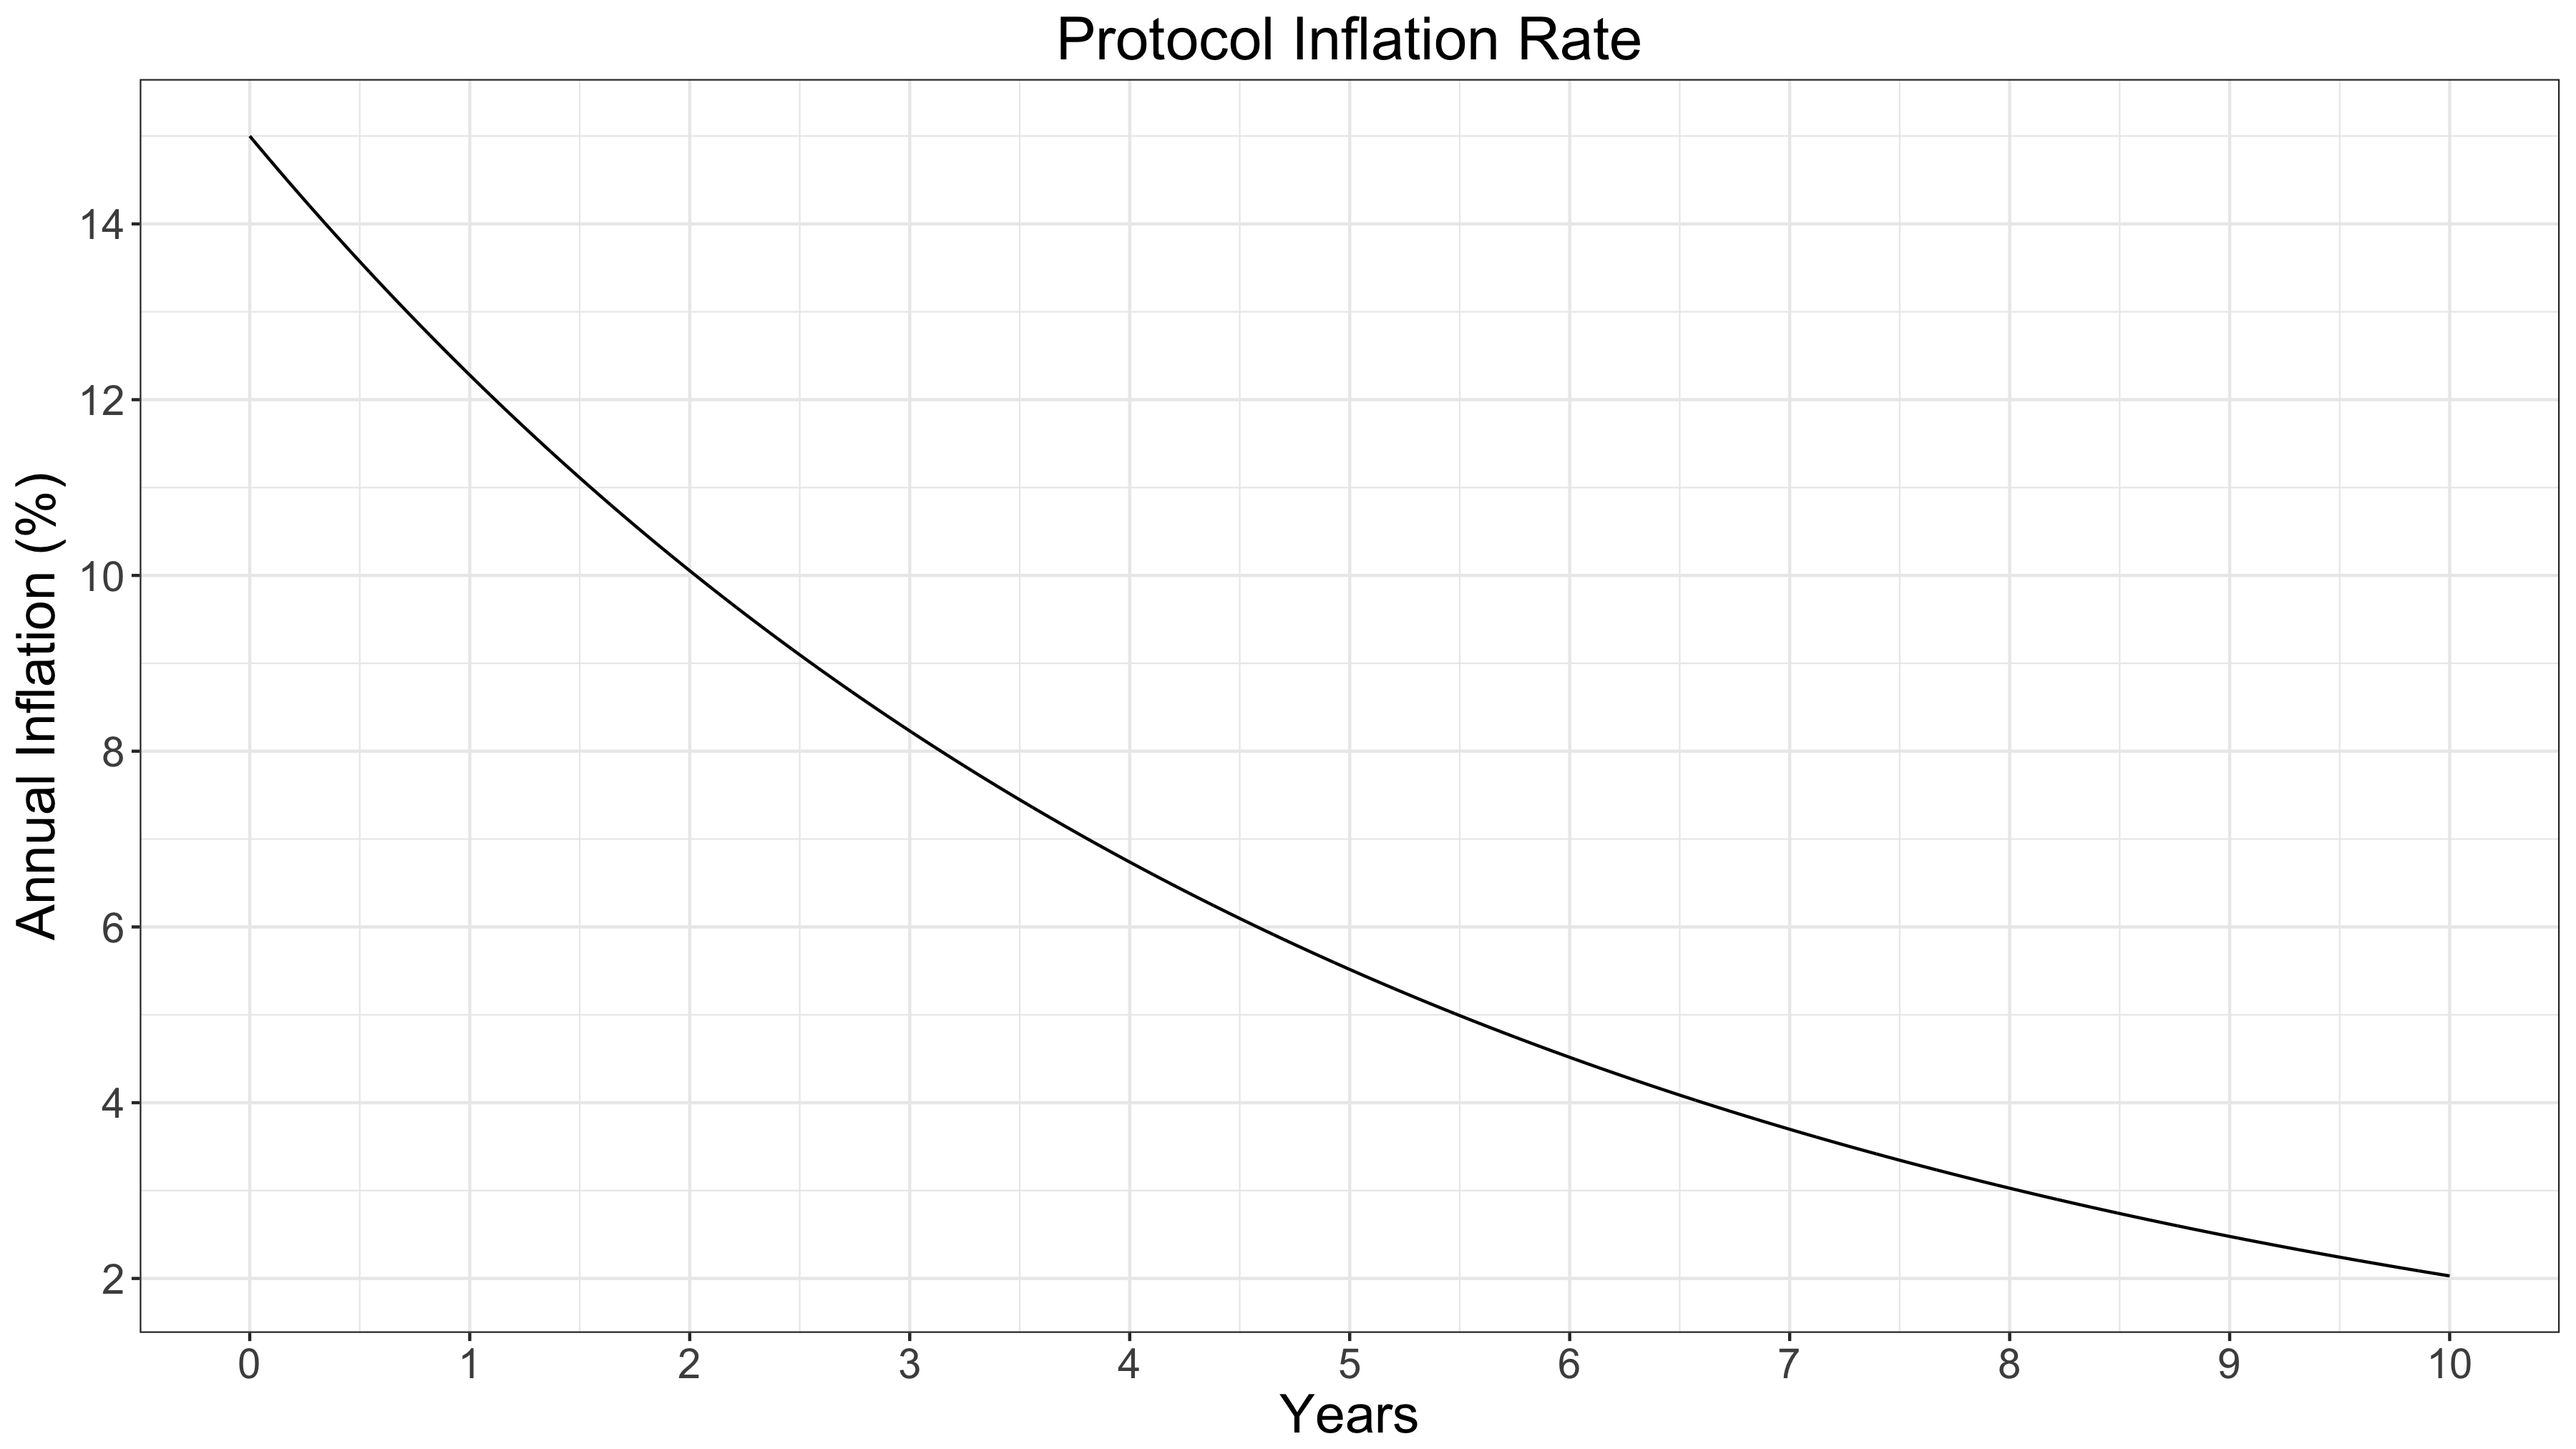
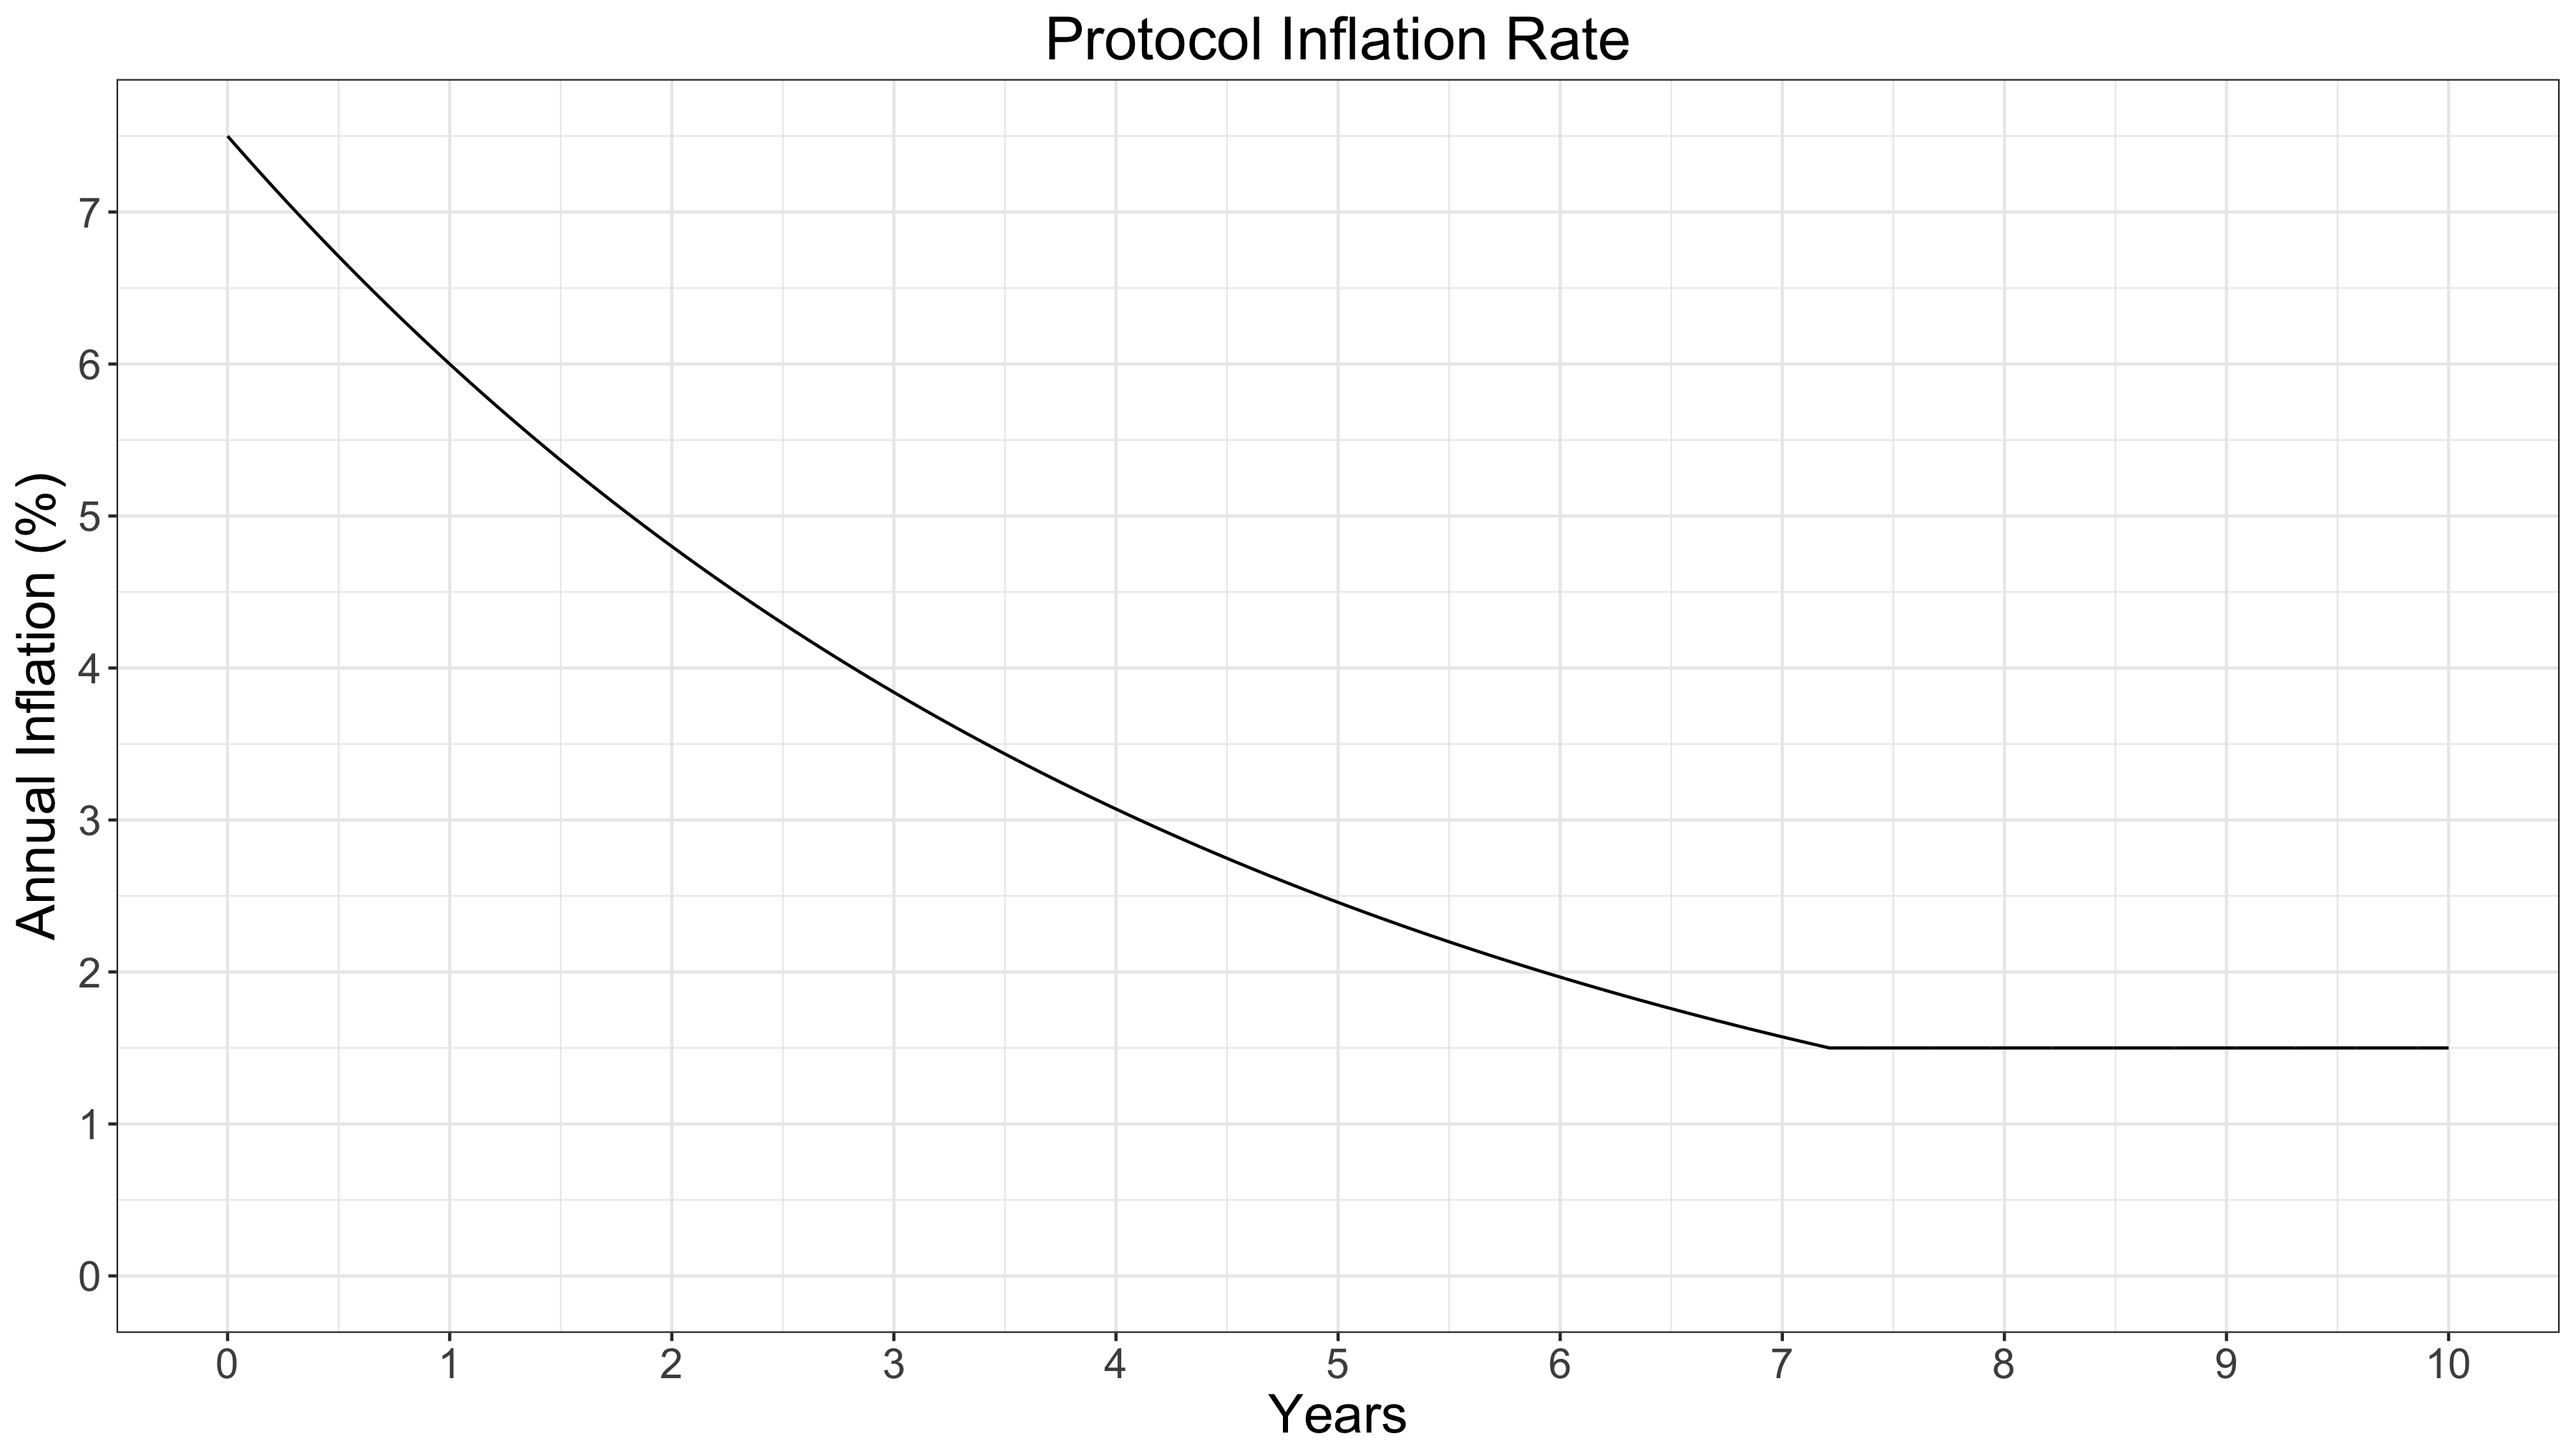
add vesting to inflation plots

diff --git a/book/src/ed_vce_state_validation_protocol_based_rewards.md b/book/src/ed_vce_state_validation_protocol_based_rewards.md
@@ -13,15 +13,13 @@ The effective protocol-based annual interest rate (%) per epoch to be distribute
 
 * the current global inflation rate, derived from the pre-determined dis-inflationary issuance schedule
 
-* the global time since the genesis block instantiation
+* the fraction of staked SOLs out of the current total circulating supply,
 
-* the current fraction of staked SOLs out of the current total circulating supply,
+* the up-time/participation [% of available slots that validator had opportunity to vote on] of a given validator over the previous epoch.
 
-* the up-time/participation [% of available slots/blocks that validator had opportunity to vote on?] of a given validator over the previous epoch.
+The first factor is a protocol parameters only (i.e. independent of validator behavior in a given epoch) and describe a global validation reward schedule designed to incentivize early participation, provide clear montetary schedule/stability and provide optimal security in the network. 
 
-The first two factors are protocol parameters only (i.e. independent of validator behavior in a given epoch) and describe a global validation reward schedule designed to incentivize early participation, provide clear montetary schedule/stability and provide optimal security in the network. 
-
-At any given point in time, a specific validator's interest rate can be determied based on that validators proportion of total stake and their uptime/activity in the previous epoch. For an illustrative example, consider a protocol with an initial circulating token supply of 500MM tokens, an inflation rate specified at network launch of 15%, and a disinflationary schedule of 70% decrease in rate per year (the actual rates to be implemented are to be worked out during the testnet experimentation phase of mainnet launch). In this case, the 10-year inflation rate (adjusted daily for this example) is shown in **Figure 2**, while the total circulating token supply is illustrated in **Figure 3**. 
+At any given point in time, a specific validator's interest rate can be determined based on the porportion of circulating supply that is staked by the network and the validator's uptime/activity in the previous epoch. For an illustrative example, consider a hypothetical instance of the network with an initial circulating token supply of 200MM tokens that vests to 500MM after 3 years, an inflation rate specified at network launch of 7.5%, and a disinflationary schedule of 20% decrease in inflation rate per year (the actual rates to be implemented are to be worked out during the testnet experimentation phase of mainnet launch). Additionally, we assume a split in interest-based rewards between validators and replicator nodes of 80%/20%. With these broad assumptions, the 10-year inflation rate (adjusted daily for this example) is shown in **Figure 2**, while the total circulating token supply is illustrated in **Figure 3**. Neglected in this toy-model is the inflation supression due to the portion of burnt transaction fees. 
 
 <p style="text-align:center;"><img src="img/p_ex_schedule.png" alt="drawing" width="800"/></p>
 **Figure 2:** In this example schedule, the annual inflation rate [%] reduces at around 20% per year, until it reaches the long-term, fixed, 1.5% rate (not shown in 10-year graph).
@@ -29,7 +27,7 @@ At any given point in time, a specific validator's interest rate can be determie
 <p style="text-align:center;"><img src="img/p_ex_supply.png" alt="drawing" width="800"/></p>
 **Figure 3:** The total token supply over a 10-year period, based on an initial 500MM tokens with the disinflationary inflation schedule as shown in **Figure 2**
 
-Given these example parameters, a validator-specific interest rate can be determined based on the proportion of the total amount of staked tokens that validator has bonded, as well as their uptime/activity in the previous epoch. For the purpose of this example, we assume 100% uptime for all validators and 
+Given these example parameters, annualized validator-specific interest rates can be determined based on the global fraction of tokens bonded as stake, as well as their uptime/activity in the previous epoch. For the purpose of this example, we assume 100% uptime for all validators and 
 The interest rate adjusts as the square-root [TBD] of the % staked, leading to higher validation-client interest rates as the % staked drops below the targeted goal, thus incentivizing more participation leading to more security in the network. An example of such a schedule, for a specified point in time (e.g. network launch) is shown in **Table 1**.
 
 | Percentage circulating supply staked [%] | Annual validator-client interest rate [%] |
